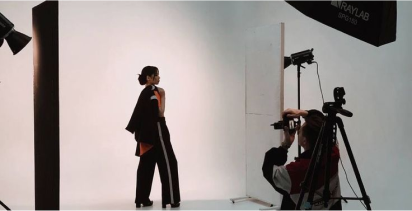
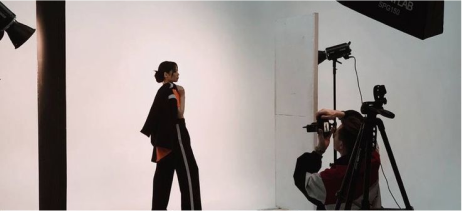
phone version

diff --git a/styles/shop.css b/styles/shop.css
@@ -12,7 +12,7 @@ nav {
   margin-left: 2em;
   display: flex;
   flex-direction: row;
-  gap: 18em;
+  gap: 21em;
 }
 
 header .title {
